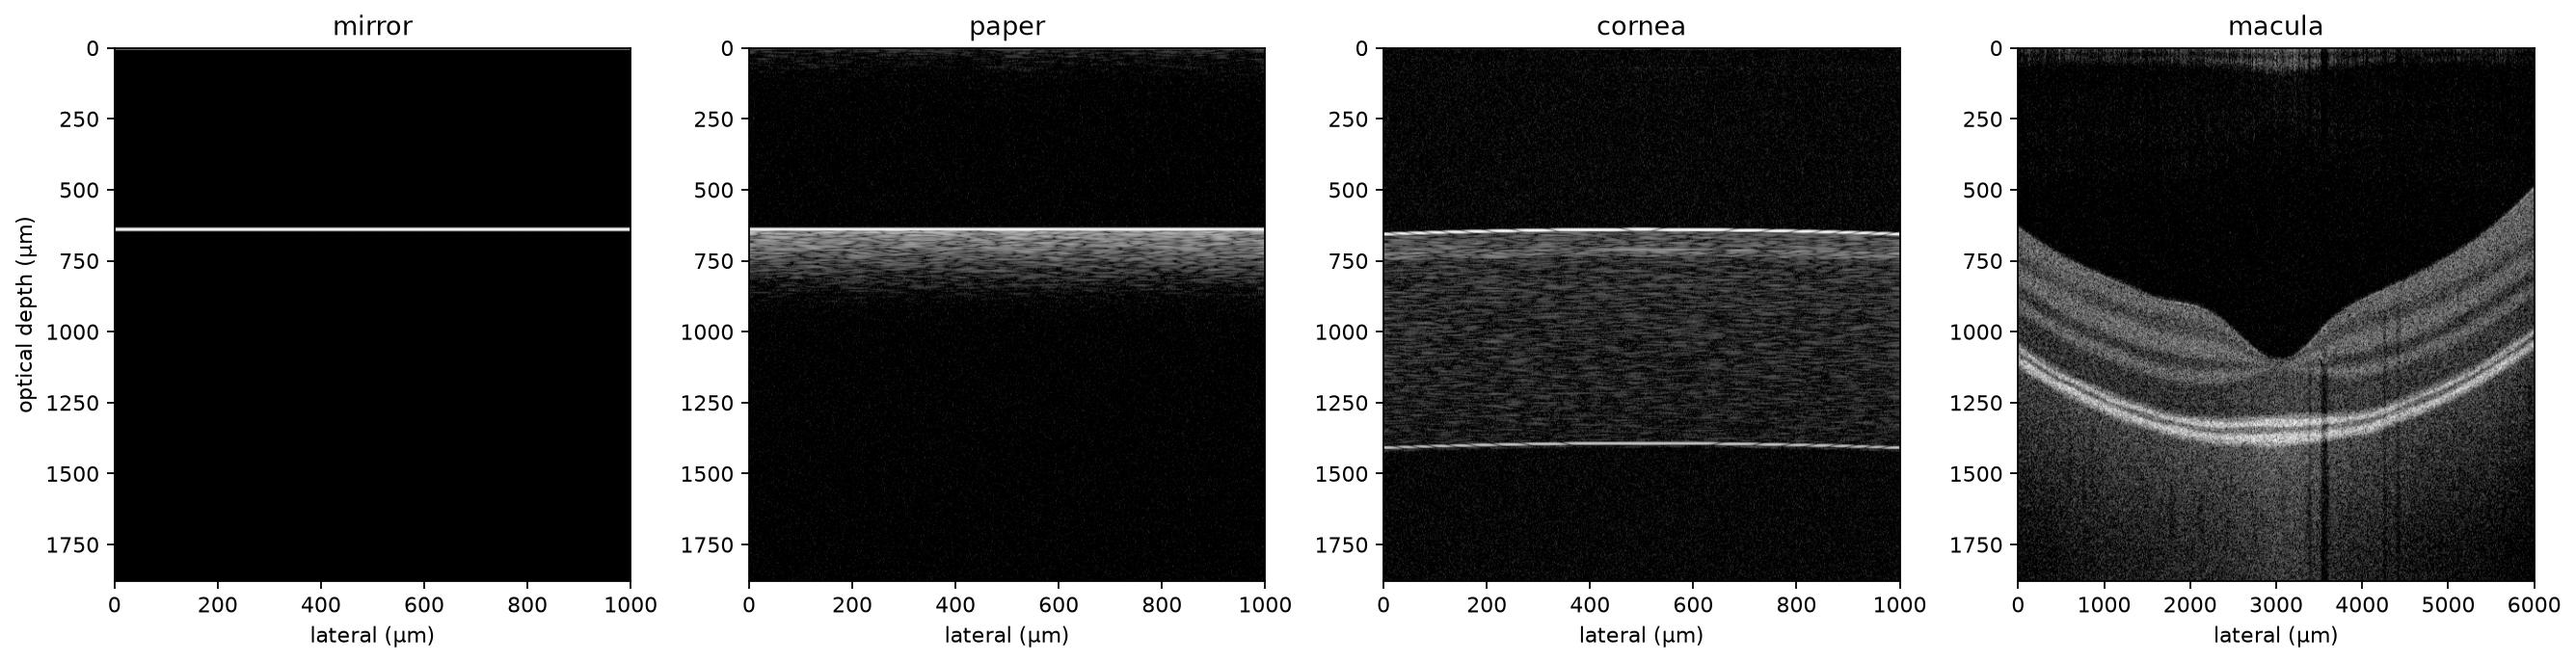
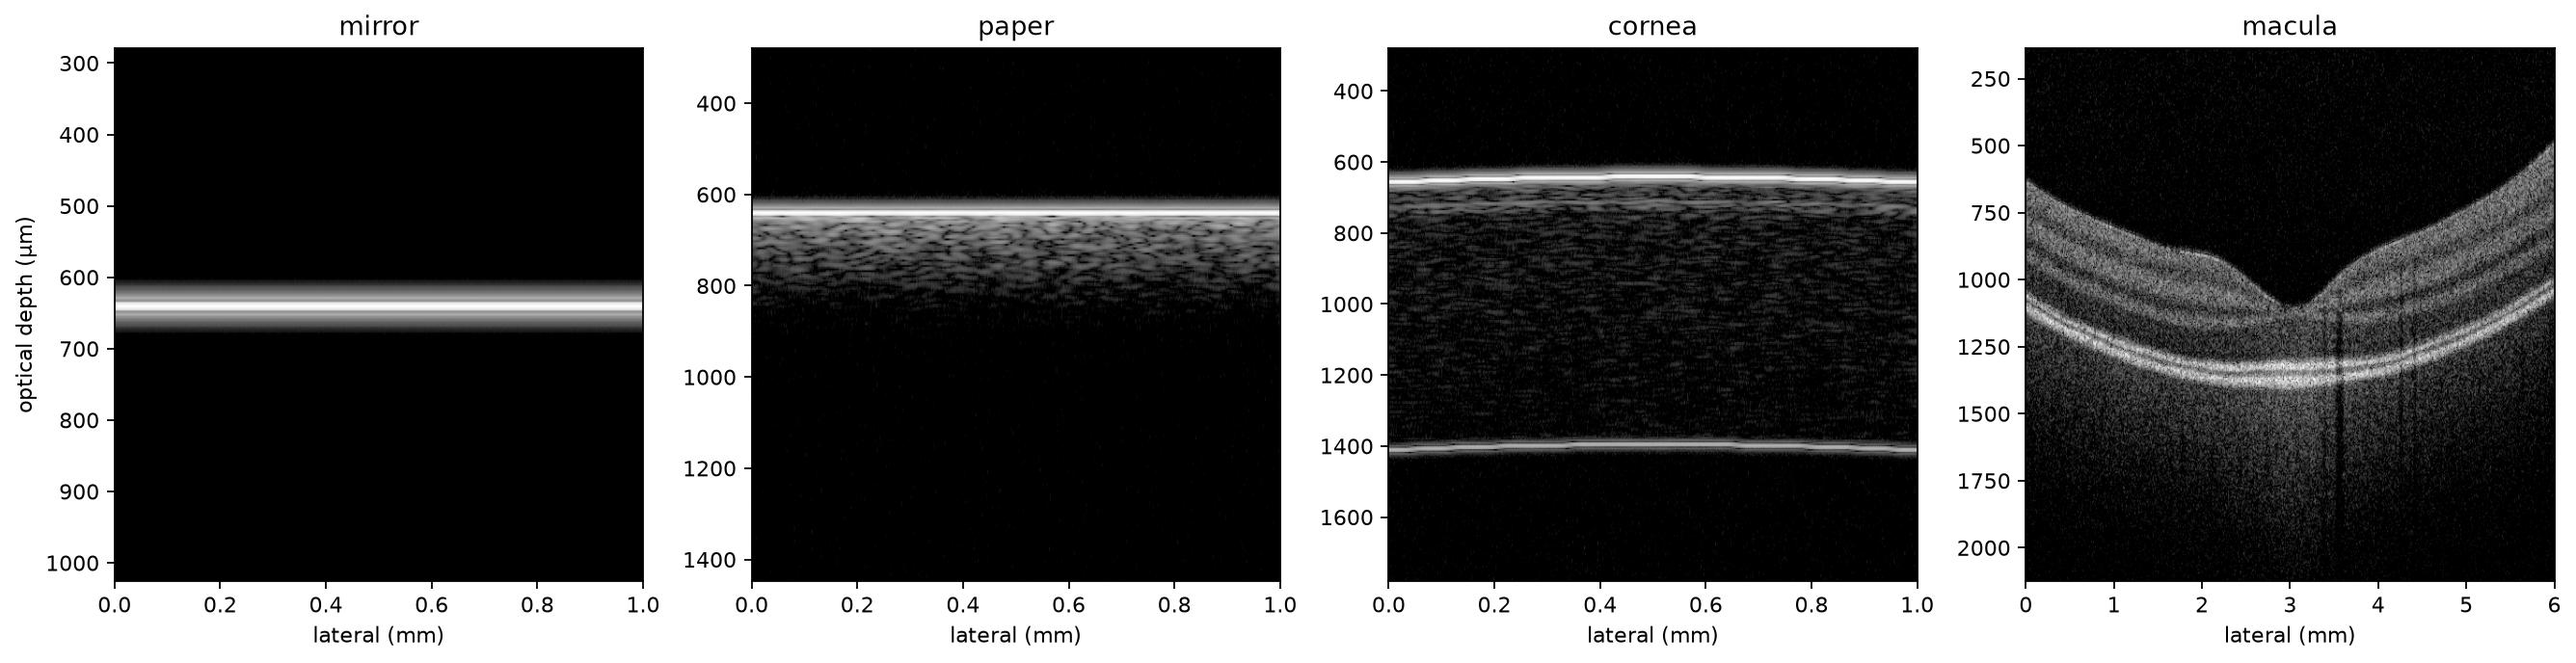
Render the README figures the way the simulator is meant to be driven
The example B-scan was rendered with motion_level=1.0 against the default
closed-form Gaussian source. Both were wrong choices for a still figure:

  - motion_level defaults to 0.0. At 1.0 the eye-motion trajectory is
    physically right but its washout and phase artifacts streak the whole
    frame, which is what the example was showing off.
  - instrument="" uses the closed-form source. instrument="device_a" overlays
    the measured power spectrum, sensitivity fall-off, SNR, and scan
    distortion, and that is the difference between a generic frame and one
    that reads like a real B-scan.

Also crops to the labelled tissue rows instead of rendering the whole axial
window, and displays at -50 dB rather than -55, which was stretching the noise
floor bright enough to grey out the vitreous. Lateral axis is now mm.

The crop comes from the label map, so it tracks whatever anatomy was drawn.

diff --git a/examples/render_figures.py b/examples/render_figures.py
@@ -27,6 +27,17 @@ from octsim import SimConfig, simulate  # noqa: E402
 DEFAULT_OUT = os.path.join(
     os.path.dirname(os.path.dirname(os.path.abspath(__file__))), "docs", "assets")
 
+#: Render against the MEASURED device model rather than the closed-form Gaussian default.
+#: `instrument="device_a"` supplies the measured source spectrum P(k), sensitivity
+#: fall-off, SNR, and scan distortion — the difference between a generic-looking frame and
+#: one that reads like a real B-scan. Motion is left at its default 0.0: a non-zero
+#: motion_level is physically correct but its washout streaks dominate a still figure.
+INSTRUMENT = "device_a"
+
+#: display window (dB). -50 matches the contrast a device shows; -55 stretches the noise
+#: floor bright enough to grey out the vitreous.
+VMIN_DB = -50.0
+
 #: the four scenes in the gallery panel — two bench targets, then tissue
 GALLERY = [
     ("mirror", dict(anatomy="mirror")),
@@ -38,6 +49,21 @@ GALLERY = [
 
 def _extent(res):
     return [res.x_axis_um[0], res.x_axis_um[-1], res.depth_axis_um[-1], res.depth_axis_um[0]]
+
+
+def _tissue_rows(res, pad_um: float = 260.0):
+    """Depth rows spanned by labelled tissue, padded. Keeps the frame off the empty window.
+
+    The axial range runs well past the retina, so an uncropped frame renders the tissue as
+    a thin strip in a field of noise floor. The label map already says where the tissue is.
+    """
+    rows = np.nonzero(res.labels2d.any(axis=1))[0]
+    dz = float(res.depth_axis_um[1] - res.depth_axis_um[0])
+    pad = int(round(pad_um / max(dz, 1e-9)))
+    n = res.labels2d.shape[0]
+    if rows.size == 0:
+        return 0, n
+    return max(int(rows[0]) - pad, 0), min(int(rows[-1]) + pad, n)
 
 
 def _save(fig, out, name):
@@ -56,22 +82,25 @@ def _save_arrays(res, out, name):
 
 def macula(out: str, save_arrays: bool = False) -> None:
     """A 6 mm macular B-scan and the per-pixel layer labels that ship with it."""
-    cfg = SimConfig(anatomy="macula", lateral_fov_um=6000.0, lines_per_frame=768,
-                    motion_level=1.0, noise_level=1.0)
-    res = simulate(cfg, seed=3)
-    ext = _extent(res)
+    cfg = SimConfig(anatomy="macula", instrument=INSTRUMENT, shape_model="octa500",
+                    lateral_fov_um=6000.0, lines_per_frame=1024, sample_depth_um=640.0)
+    res = simulate(cfg, seed=11)
+    r0, r1 = _tissue_rows(res)
+    dz = float(res.depth_axis_um[1] - res.depth_axis_um[0])
+    ext = [res.x_axis_um[0] / 1000.0, res.x_axis_um[-1] / 1000.0, r1 * dz, r0 * dz]
 
-    fig, ax = plt.subplots(figsize=(6.4, 4.2), dpi=160)
-    ax.imshow(res.bscan_db, cmap="gray", aspect="auto", extent=ext, vmin=-55, vmax=0)
-    ax.set_xlabel("lateral (µm)")
+    fig, ax = plt.subplots(figsize=(7.2, 3.4), dpi=170)
+    ax.imshow(res.bscan_db[r0:r1], cmap="gray", aspect="auto", extent=ext,
+              vmin=VMIN_DB, vmax=0)
+    ax.set_xlabel("lateral (mm)")
     ax.set_ylabel("optical depth (µm)")
     fig.tight_layout()
     _save(fig, out, "macula-bscan.jpg")
 
-    fig, ax = plt.subplots(figsize=(6.4, 4.2), dpi=160)
-    ax.imshow(res.labels2d, cmap="nipy_spectral", aspect="auto", extent=ext,
-              vmin=0, vmax=max(int(res.labels2d.max()), 1))
-    ax.set_xlabel("lateral (µm)")
+    fig, ax = plt.subplots(figsize=(7.2, 3.4), dpi=170)
+    ax.imshow(res.labels2d[r0:r1], cmap="nipy_spectral", aspect="auto", extent=ext,
+              vmin=0, vmax=max(int(res.labels2d.max()), 1), interpolation="nearest")
+    ax.set_xlabel("lateral (mm)")
     ax.set_ylabel("optical depth (µm)")
     fig.tight_layout()
     _save(fig, out, "macula-labels.jpg")
@@ -84,11 +113,15 @@ def gallery(out: str, save_arrays: bool = False) -> None:
     """One panel per preset, all on the same display window."""
     fig, axes = plt.subplots(1, len(GALLERY), figsize=(4.2 * len(GALLERY), 4.4), dpi=150)
     for ax, (name, kw) in zip(axes, GALLERY):
-        res = simulate(SimConfig(lines_per_frame=512, **kw), seed=1)
-        ax.imshow(res.bscan_db, cmap="gray", aspect="auto",
-                  extent=_extent(res), vmin=-55, vmax=0)
+        res = simulate(SimConfig(lines_per_frame=512, instrument=INSTRUMENT, **kw), seed=1)
+        r0, r1 = _tissue_rows(res, pad_um=360.0)
+        dz = float(res.depth_axis_um[1] - res.depth_axis_um[0])
+        ax.imshow(res.bscan_db[r0:r1], cmap="gray", aspect="auto",
+                  extent=[res.x_axis_um[0] / 1000.0, res.x_axis_um[-1] / 1000.0,
+                          r1 * dz, r0 * dz],
+                  vmin=VMIN_DB, vmax=0)
         ax.set_title(name)
-        ax.set_xlabel("lateral (µm)")
+        ax.set_xlabel("lateral (mm)")
         if save_arrays:
             _save_arrays(res, out, name)
     axes[0].set_ylabel("optical depth (µm)")

diff --git a/README.md b/README.md
@@ -24,6 +24,11 @@ There is a **programmatic API** and a **PySide6 GUI**.
 The label map above is a byproduct of rendering, not a separate annotation
 step — every generated sample ships one.
 
+Both figures are rendered against the bundled measured instrument model
+(`SimConfig(instrument="device_a")`), which supplies a real source spectrum,
+sensitivity fall-off, SNR, and scan distortion in place of the closed-form
+Gaussian default. Reproduce them with `python examples/render_figures.py`.
+
 <p align="center"><img src="docs/assets/gallery.jpg" alt="Gallery of mirror, paper, cornea, and macula presets" width="900"></p>
 
 ## Quickstart
